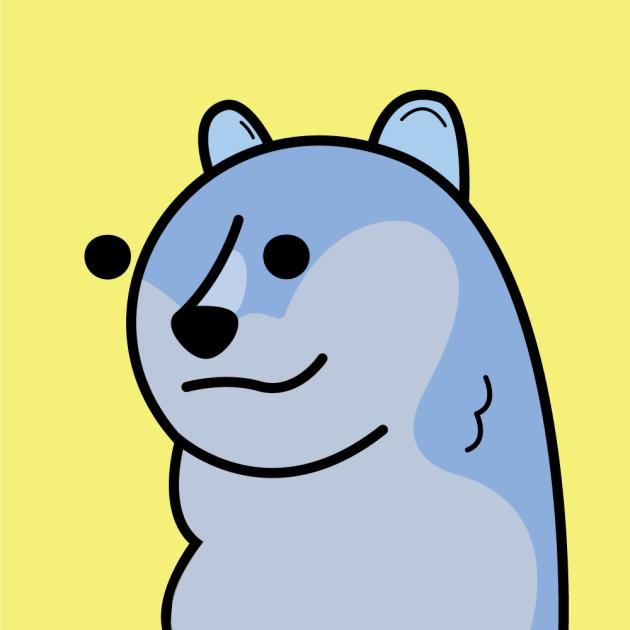
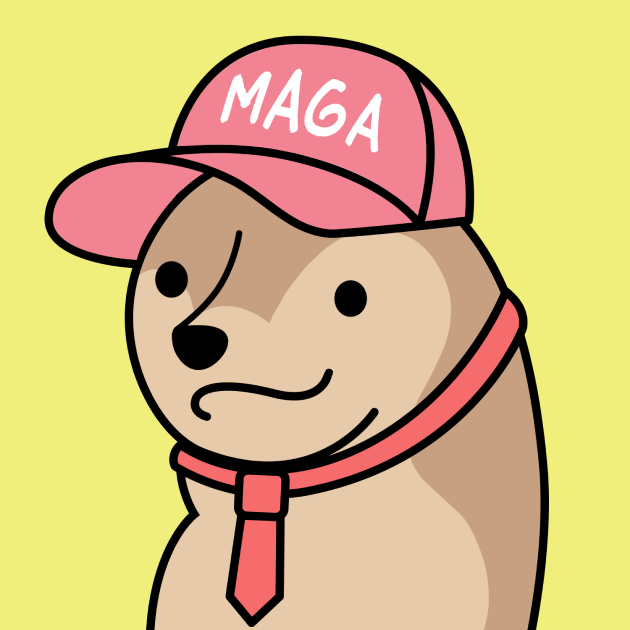
changed images

diff --git a/src/components/Transaction/Transaction.jsx b/src/components/Transaction/Transaction.jsx
@@ -48,17 +48,15 @@ const Transaction = () => {
             <img className='borderTop' src={top} alt="..." />
             <div className="screen">
               <div className="screenPara">
-                  <h3>DOODLED DOGE</h3>
+                  <h3>MEET MAGADOGE</h3>
                 <p className="descriptionText">
-                  Lorem ipsum dolor sit amet, consectetur adipiscing elit. Proin
-                  tristique nec tortor eget lobortis. In blandit nulla ac
-                  consequat finibus.
+                Magadoge, is a fictional shiba inu character in the crypto world. Sporting a red "MAGA" hat, Magadoge blends the internet-famous Doge meme with political satire. With his golden fur and meme-worthy face, Magadoge navigates absurd political landscapes, using humor and charisma to highlight real-world issues.
                 </p>
-                <p className="descriptionText">
+                {/* <p className="descriptionText">
                   Sed placerat sapien id arcu fermentum suscipit ut accumsan
                   nisi. Praesent pellentesque purus vitae metus tincidunt
                   malesuada.
-                </p>
+                </p> */}
               </div>
               <div className="screnDog">
                   <img src={lcdDog} alt="..." />
